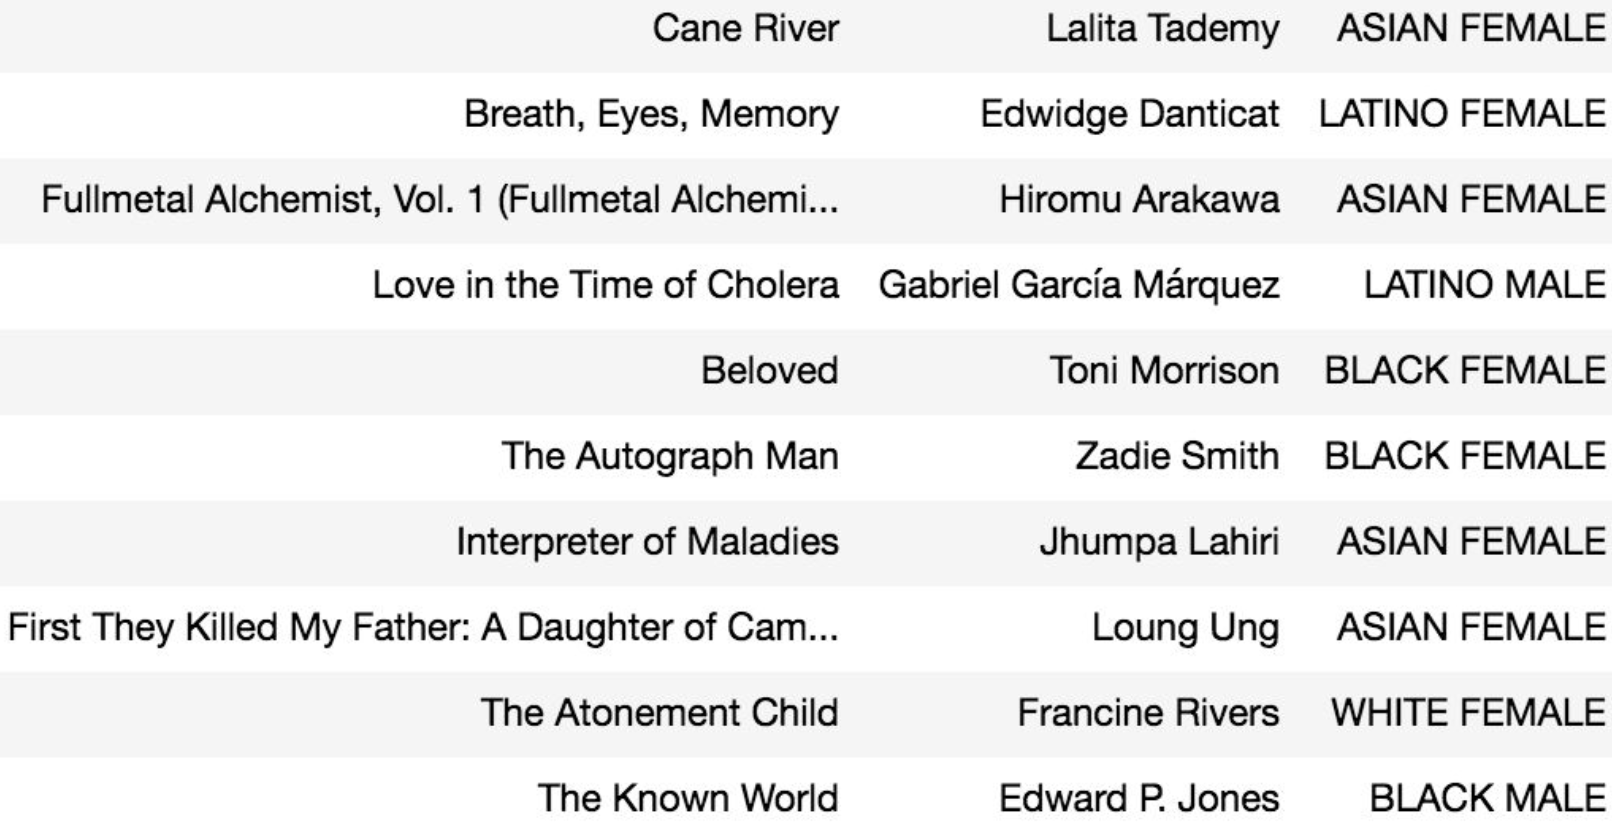
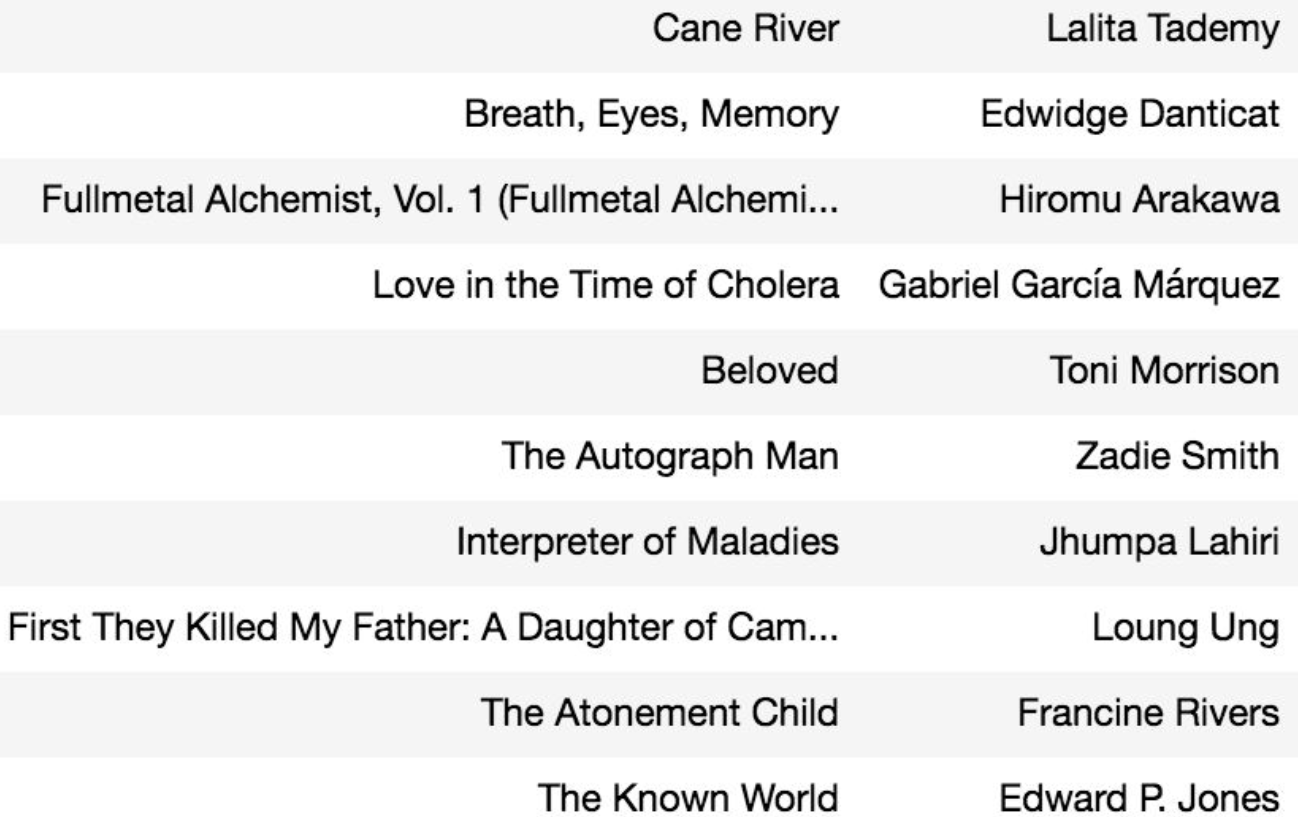
updating readme

diff --git a/README.md b/README.md
@@ -79,5 +79,3 @@ Yikes that is a lot of white males. Using these percentages. The recommender cre
 ![Standard Nerd Recs - After Boosting](https://github.com/cristined/woke-books/blob/master/img/standard_nerd_recs_after_boosting.png)
 
 Now doesn't this look a little more interesting. Happy reading Moses!
-
-Also I know Lalita Tademy is a black female, not Asian female but leaving this in as a valid danger of manual classification.
